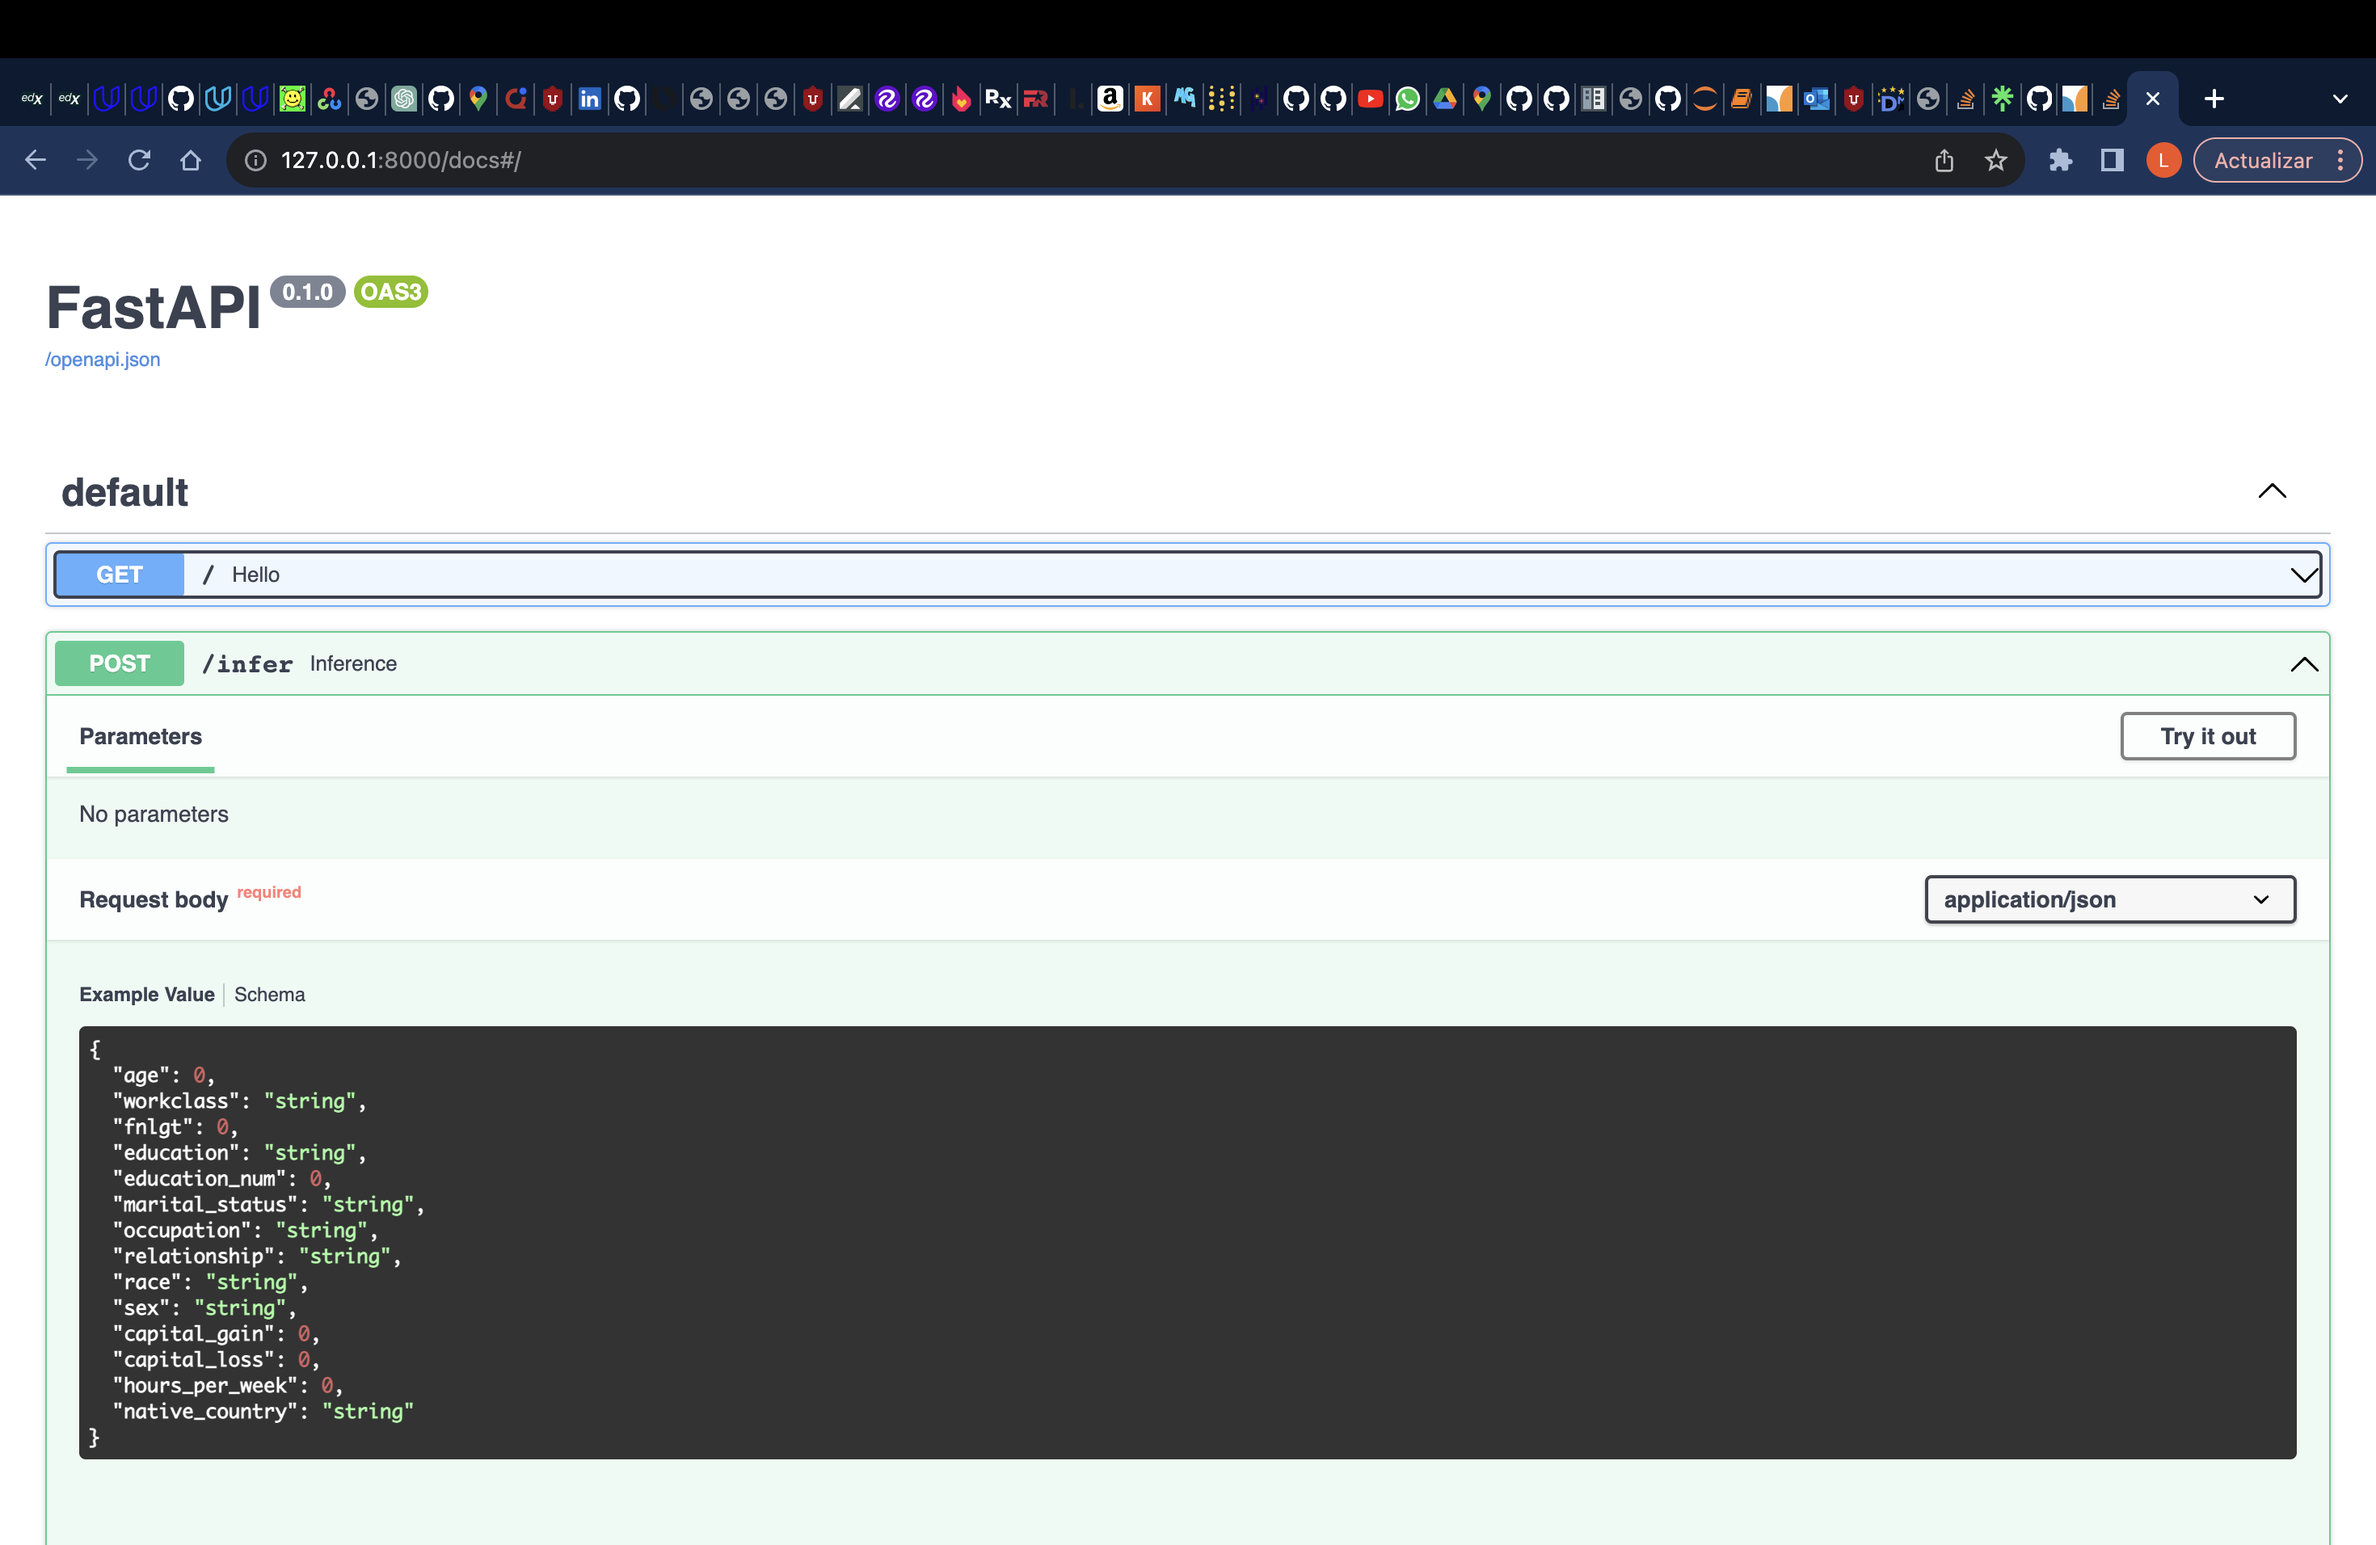
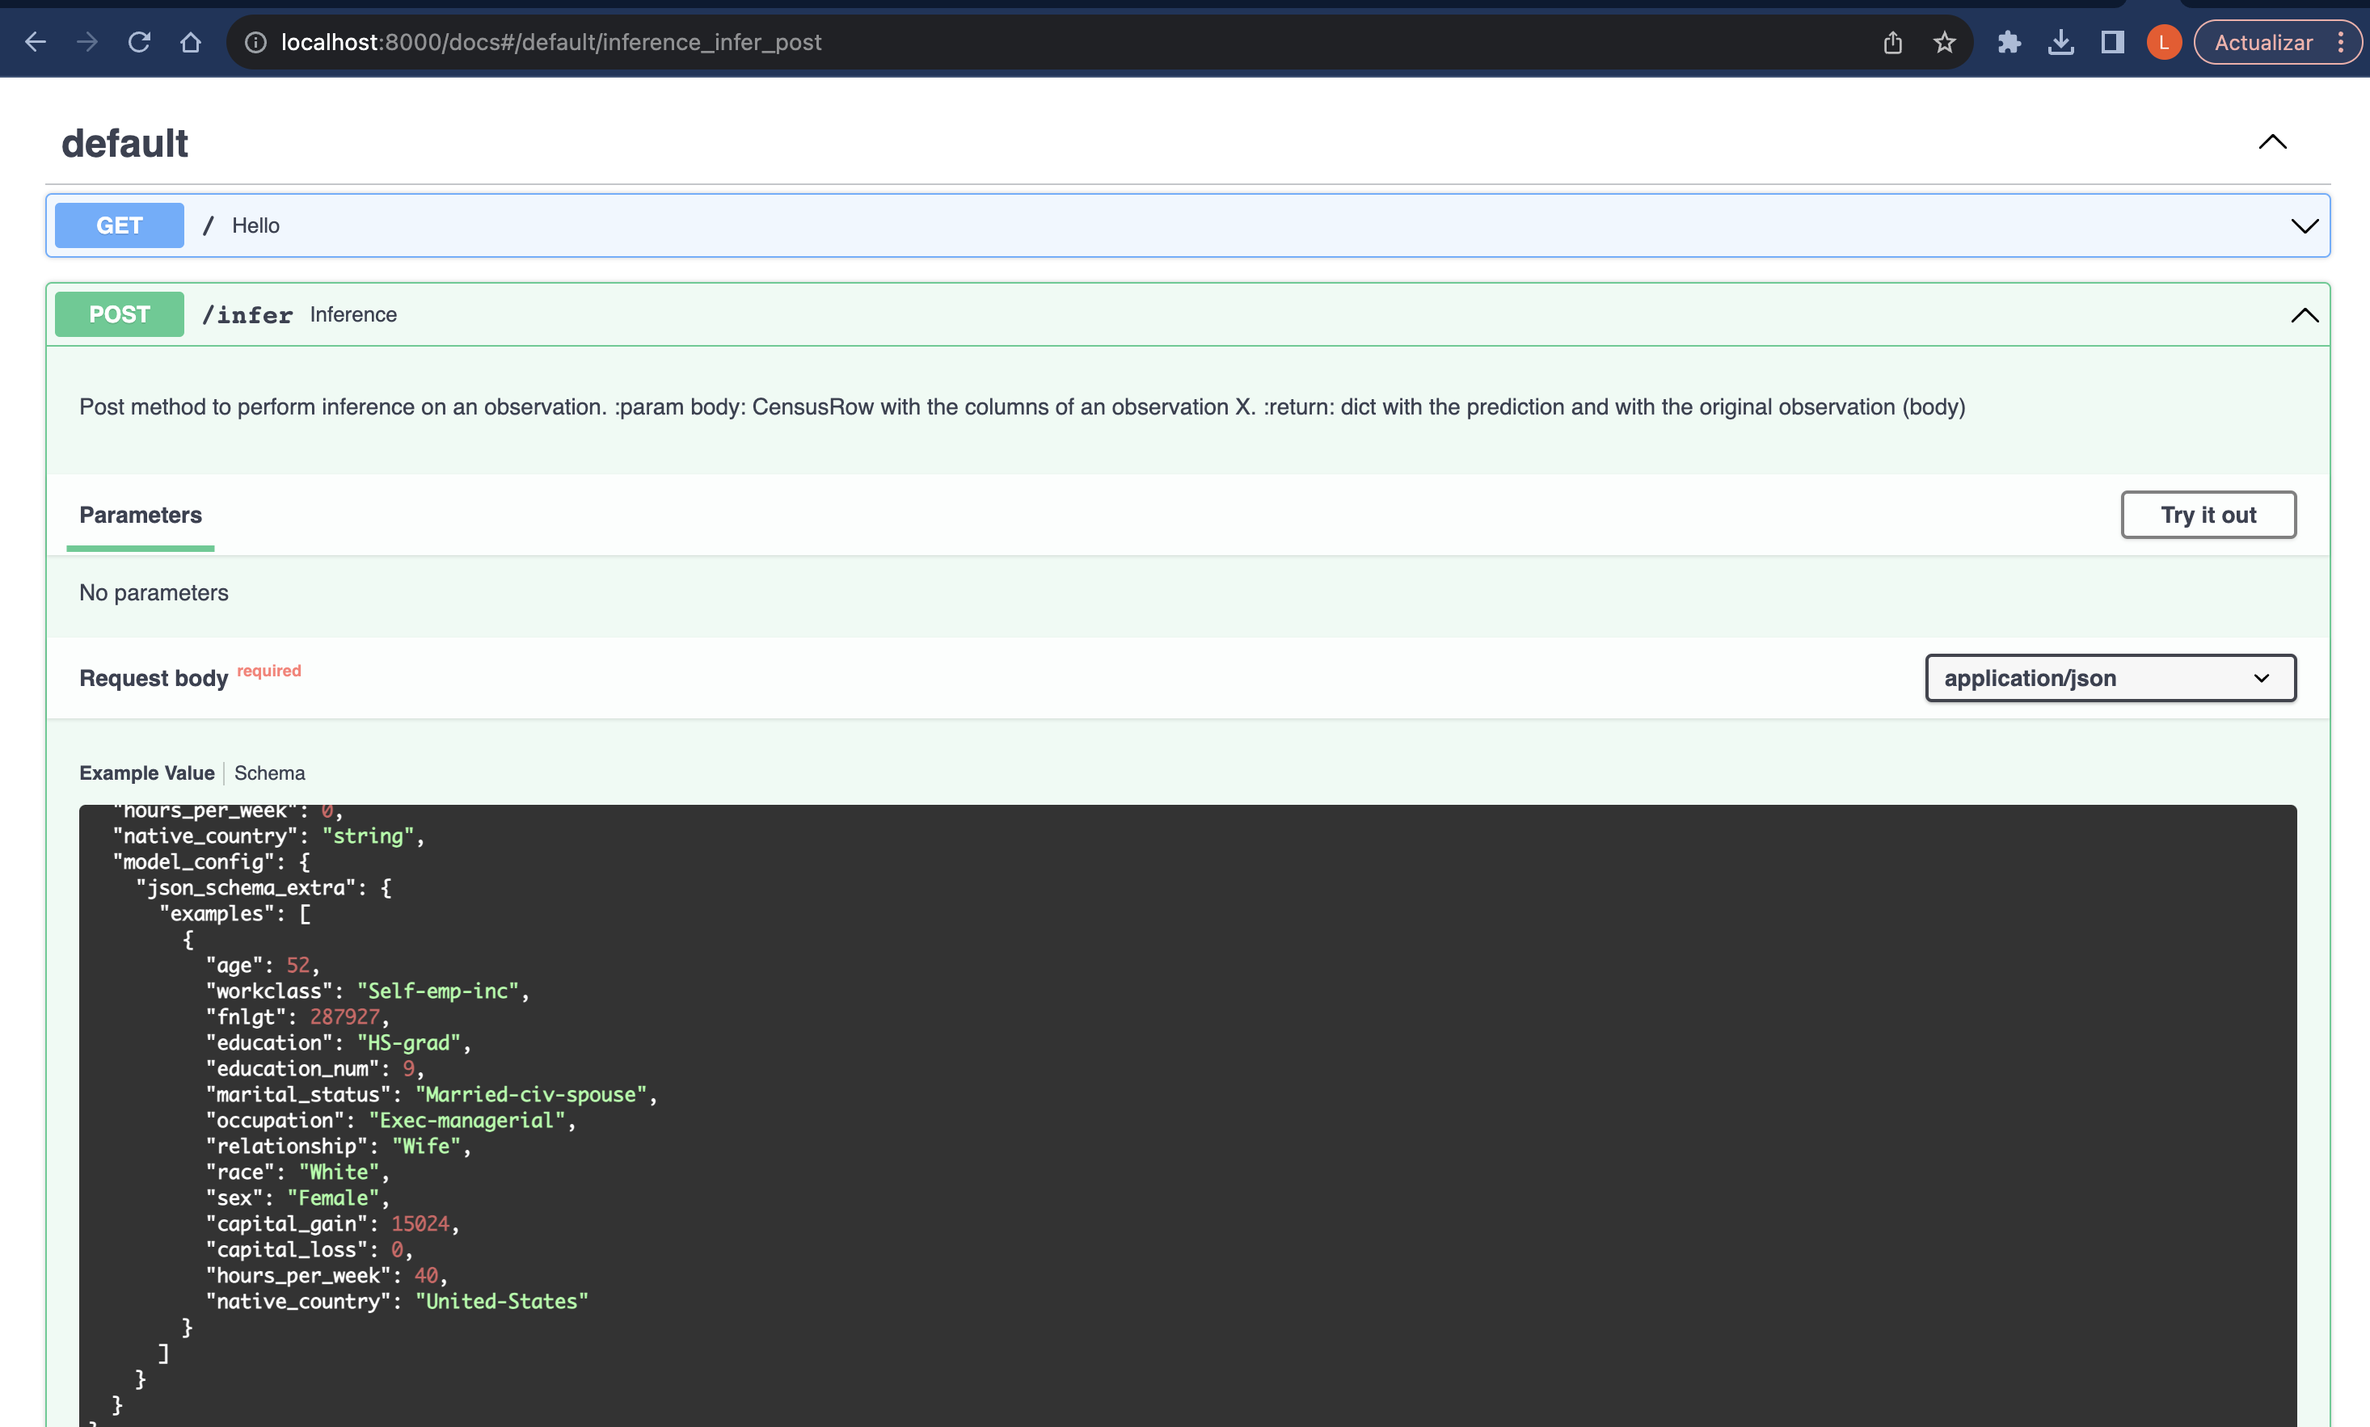
Updated API wth an example for inference call

diff --git a/main.py b/main.py
@@ -7,8 +7,9 @@ from pathlib import Path
 
 import joblib
 import pandas as pd
-from fastapi import FastAPI
-from pydantic import BaseModel
+from fastapi import FastAPI, Body
+from pydantic import BaseModel, Field
+from typing_extensions import Annotated
 
 from ml.model import process_data
 
@@ -50,6 +51,30 @@ class CensusRow(BaseModel):
     capital_loss: int
     hours_per_week: int
     native_country: str
+
+    model_config = {
+        "json_schema_extra": {
+            "examples": [
+                {
+                    "age": 52,
+                    "workclass": "Self-emp-inc",
+                    "fnlgt": 287927,
+                    "education": "HS-grad",
+                    "education_num": 9,
+                    "marital_status": "Married-civ-spouse",
+                    "occupation": "Exec-managerial",
+                    "relationship": "Wife",
+                    "race": "White",
+                    "sex": "Female",
+                    "capital_gain": 15024,
+                    "capital_loss": 0,
+                    "hours_per_week": 40,
+                    "native_country": "United-States",
+                }
+            ]
+        }
+    }
+
 
 
 @app.get("/")
